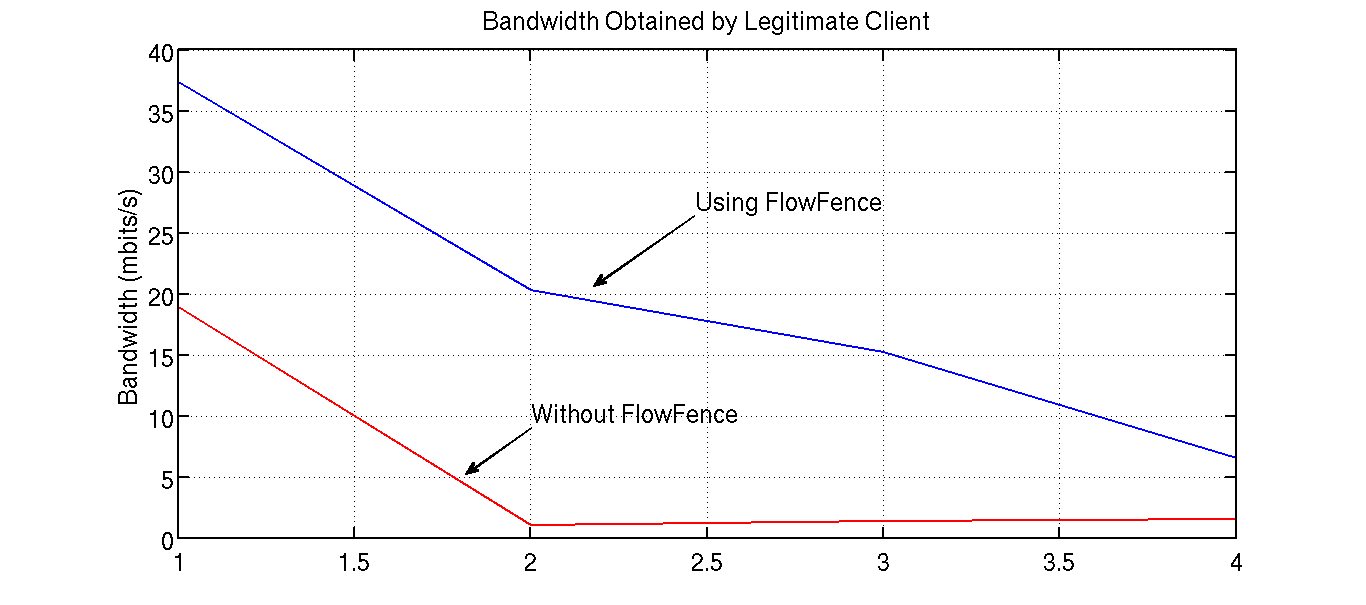
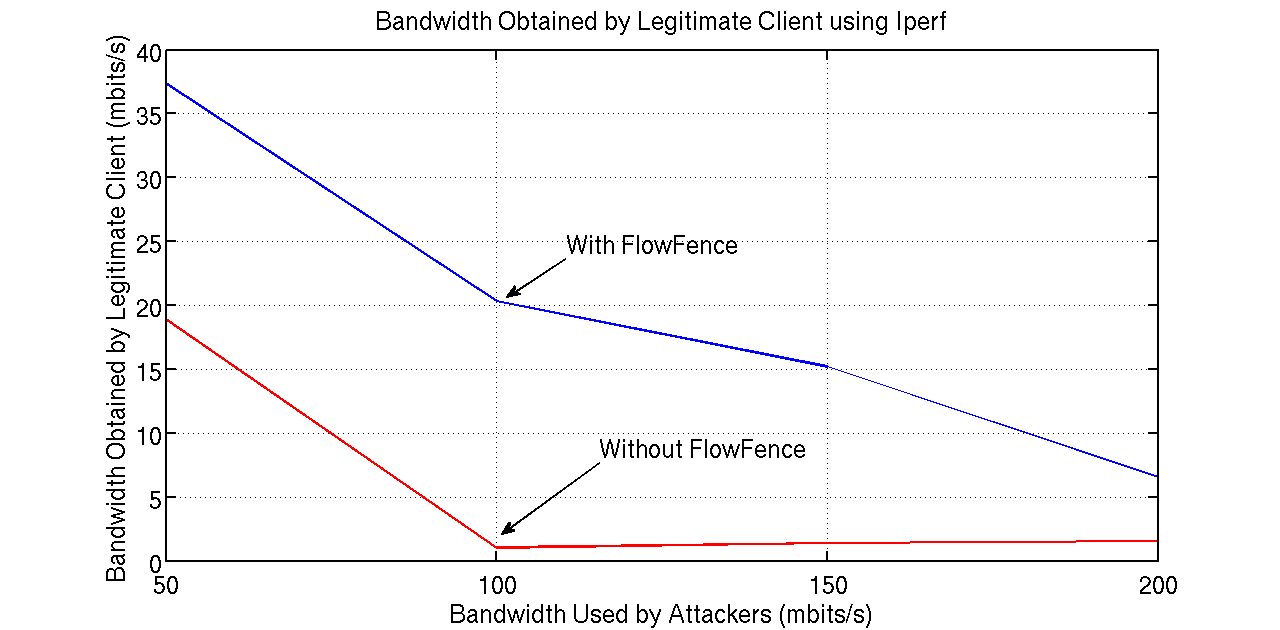
Minor fixes

diff --git a/testsApril/iperf/results.m b/testsApril/iperf/results.m
@@ -4,6 +4,8 @@ clc
 
 %%% Iperf test with attackers doing iperf
 
+attackers = [50, 100, 150, 200];
+
 mean_defense_bw = zeros(1,4);
 mean_no_defense_bw = zeros(1,4);
 
@@ -34,19 +36,20 @@ mean_no_defense_bw(4) = mean(ten_nodes_no_defense);
 
 figure(1)
 
-plot(mean_defense_bw,'-b');
+plot(attackers, mean_defense_bw,'-b');
 
 hold on;
 grid on;
 
-plot(mean_no_defense_bw,'-r');
+plot(attackers, mean_no_defense_bw,'-r');
 
 txt = findobj(gca,'Type','text');
 set(findobj(gca,'Type','text'),'FontSize',20);
 set(txt(1:end),'VerticalAlignment', 'Middle');
 
-ylabel('Bandwidth (mbits/s)')
-title('Bandwidth Obtained by Legitimate Client')
+ylabel('Bandwidth Obtained by Legitimate Client (mbits/s)')
+xlabel('Bandwidth Used by Attackers (mbits/s)')
+title('Bandwidth Obtained by Legitimate Client using Iperf')
 
 
 
